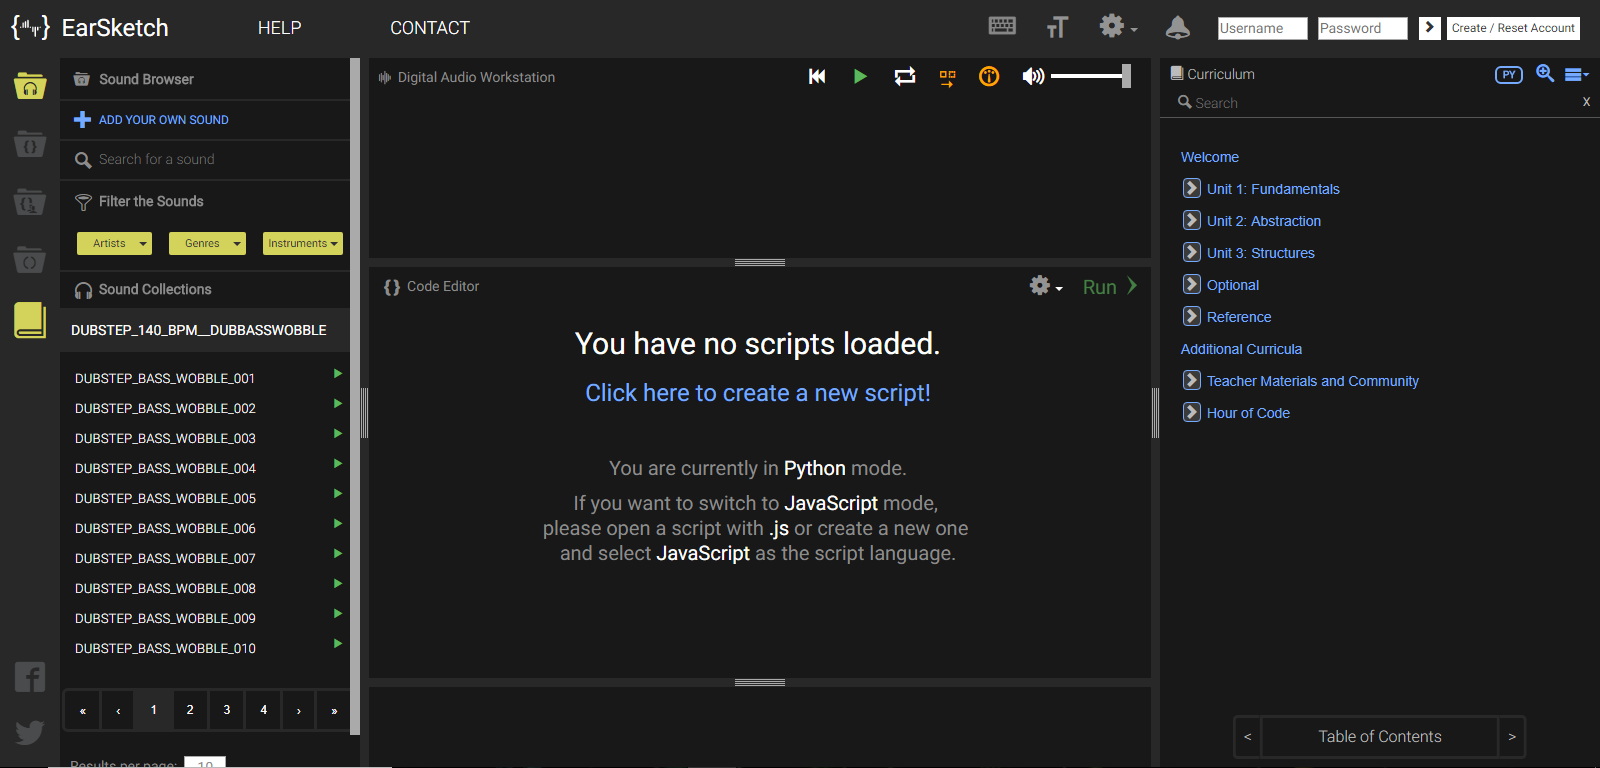
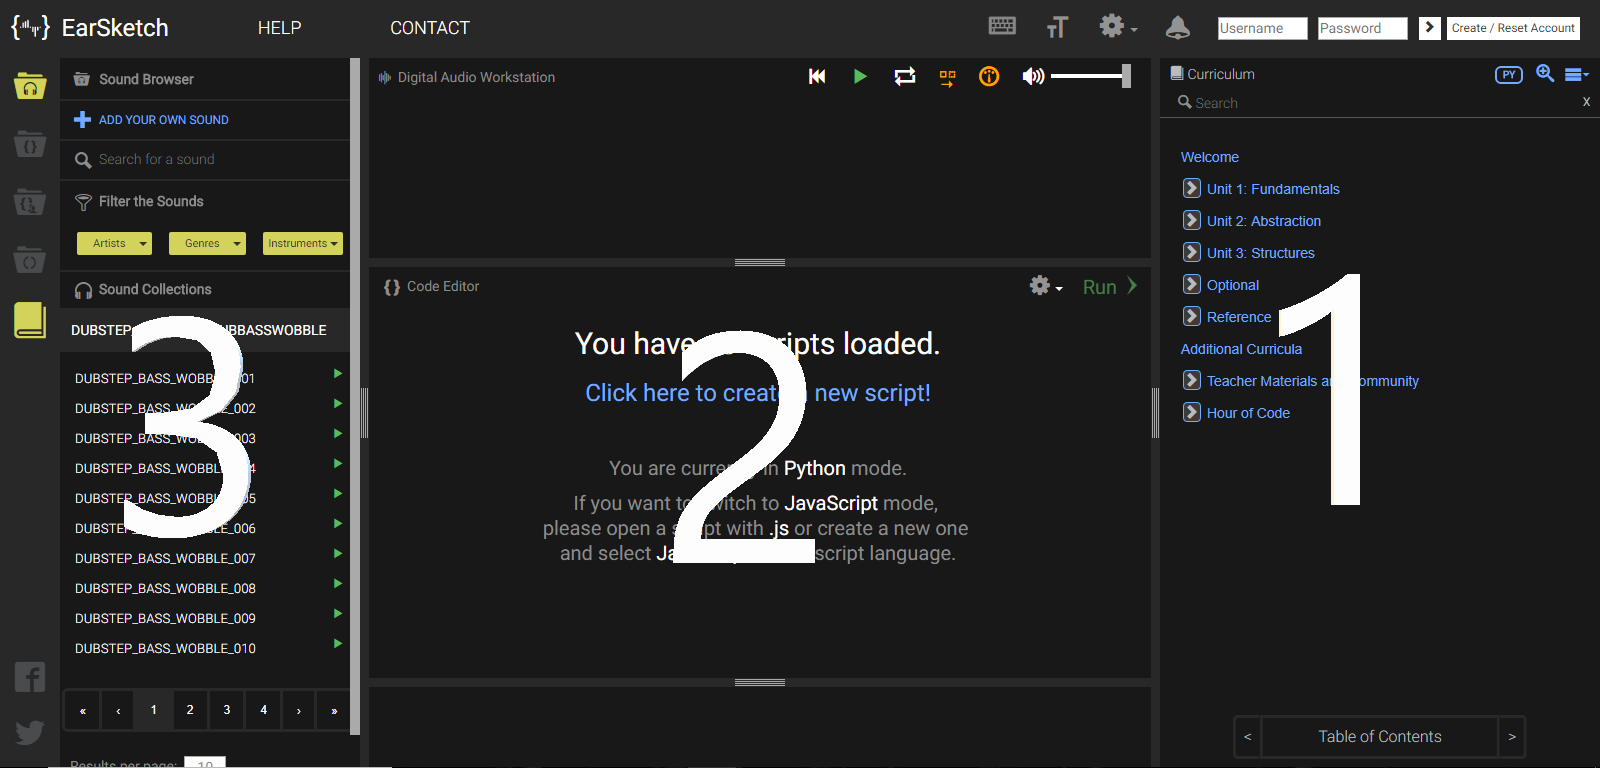
add images and update wk1 entry

Changed region(s): [[0.4062, 0.4062, 0.5312, 0.75], [0.7812, 0.3438, 0.875, 0.6562], [0.0625, 0.4062, 0.1562, 0.7188]]

diff --git a/entries/wk-1.md b/entries/wk-1.md
@@ -1,16 +1,39 @@
-## Week One: _Picking a topic for Independent Study_
+![ersch_logo](../images/earsketch_logo.jpg)
+
+## Week One: _Picking a topic for Independent Study_     
 ---
 
 #### Decision 
-Since I am an indecisive person, I usually have a hard time picking something to work with. There was a whole list of options of topics to choose from. I was mostly intrigued by the following topics: [Aframe.io](https://aframe.io/), [EarSketch](https://earsketch.gatech.edu/landing/#/), [Halite](https://halite.io/), [Firebase](https://firebase.google.com), and Building your own API. I contemplated about these potential topics that peaked my interest until I narrowed it down to two topics. *How?* 
-**Firebase** was the first option I deleted from my "potential topics" list. *Why?* I realized I would not know what kind of app to make after learning Firebase and I do not want to make a Firebase tutorial (honestly, that is **_boring and not creative_**). *Firebase, you are fired by me! I'll recruit you again maybe in the future.* *Do you want to know who was fired next?* I will give you a hint: when you try to pronounce it you will say *"Heyyy, light"* or some of you may say *"Huh? light"*. Halolight? Nope. It is **Halite**, an open source artificial intelligence programming challenge. Sounds cool, right? However, as someone who is horrible at playing games, does it really make sense for me to try to learn how to create a bot that ultimately has to manage to survive in a game? Nope, I do not have the enthusiasm and minset to figure out how to last through a game, so I do not want to create a bot that lacks the intelligence to survive through the game. *"Farewell to thee, Halite. Have a nice flight!"*. As someone who had a hard time figuring out how to use an API for my last project, I quickly dismissed the idea of me possibly building my own API. Even if I did pick this topic *hypothetically*, it is not like I would know what kind of API to create. That left me to two options from my "possible topics" list. **Aframe.io** is a virtual reality engine/web framework for building virtual reality experiences. Sounds interesting, but when I looked through examples I immediately realized that I would not be able to create an accurate virtual reality experience. I completely did not cross off Aframe.io off of my list. I chose **EarSketch** is a program where you can make music using Python or JavaScript. I like music, I just never knew we could make music using code! With EarSketch, I am a bit worried that just using EarSketch for my project would not be creative. Therefore, if I am done learning EarSketch early, I want to try to to learn another topic. 
+Since I am an indecisive person, I usually have a hard time picking something to work with. There was a whole list of topics as options to choose for independent study. I was mostly intrigued by the following topics: [**Aframe.io**](https://aframe.io/), [**EarSketch**](https://earsketch.gatech.edu/landing/#/), [**Halite**](https://halite.io/), [**Firebase**](https://firebase.google.com), and **Building your own API**. I contemplated about these potential topics that peaked my interest until I narrowed them down to two topics. **_How?_** **Firebase** was the first option I deleted from my "potential list of topics" list. **_Why?_** I realized I would not know what kind of app to make after learning Firebase and I do not want to make a Firebase tutorial (honestly, that is **_boring and not creative_**). *Firebase, you are fired by me! I'll recruit you again maybe in the future.* *Do you want to know who was fired next?* I will give you a hint: when you try to pronounce it you will say *"Heyyy, light"* or some of you may say *"Huh? light"*. Is the answer Halolight? Nope. It is **Halite**, an open source artificial intelligence programming challenge. Sounds cool, right? However, as someone who is horrible at playing games, does it _really_ make sense for me to try to learn how to create a bot that ultimately has to manage to survive in a game? Nope, I do not have the enthusiasm and mindset to figure out how to last through a game, so I do not want to create a bot that lacks the intelligence to survive through the game. *"Farewell to thee, Halite. Have a nice flight!"*. As someone who had a hard time figuring out how to use an API for my last project, I quickly dismissed the idea of me possibly **building my own API**. Even if I did pick this topic *hypothetically*, it is not like I would know what kind of API to create. That left me to two options from my "possible topics" list. **Aframe.io** is a virtual reality engine/web framework for building virtual reality experiences. Sounds interesting, but when I looked through examples I immediately realized that I would not be able to create an accurate virtual reality experience. I completely did not cross off Aframe.io off of my list. I chose **EarSketch** is a program where you can make music using Python or JavaScript. I like music, I just never knew we could make music using code! With EarSketch, I am a bit worried that just using EarSketch for my project would not be creative. Therefore, if I am done learning EarSketch early, I want to try to to learn another topic. 
 
 #### First Impression of EarSketch
-As I mentioned in the previous section, I do not consider using only EarSketch and creating music on its own as a creative idea for a project. I believe I can finish learning how to use EarSketch early. If I accomplish learning how to use EarSketch, I will attempt to learn anohter topic. My goal is to then incorporate the music I produced on EarSketch into what I will create with the other topic.
+As I mentioned in the previous section, I do not consider using only EarSketch and creating music on its own as a creative idea for a project. I believe I can finish learning how to use EarSketch early. If I accomplish learning how to use EarSketch, I will attempt to learn another topic. My goal is to then incorporate the music I produced on EarSketch into what I will create with the other topic.
 
 #### Exploring on EarSketch 
 When I first went to the [EarSketch](https://earsketch.gatech.edu/landing/#/) website, I watched the video they have on their landing page. Then, I clicked on the green "Get Started" button on the upper-right hand corner of the navigation bar. This action opened a new tab and I was greeted by a coding platform that looked similar to cloud9. 
 
-The View:
+**The View:**
 
 ![EarSketch](../images/EarSketch.PNG)
+
+ 1. The part labeled '**1**' is where the whole curriculum is. Lessons and example videos on how to use EarSketch are there. I looked through "Unit 1: Fundamentals" briefly. There was a spiel about why someone should consider learning programming for music in the beginning of Unit 1. Also, I was introduced to unfamiliar terms. For example, I learned that **DAW** stands for **Digital Audio Workstation**. **DAW** is the main tool for producing music and is a software for recording, editing, and playing digital audio files. The neat thing is that you can change and choose the language you want to learn how to make music in. In the screenshot, you can see on the same line as 'Curriculum' an icon that is square-shaped with 'PY' inside, you can click on that icon to change the coding language you want to learn in. You can pick JavaScript or Python to learn how to code in EarSketch to create music. 
+ 2. **Label '2'** is the **Code Editor** and you can click on the 'Click here to create a new script!' to create a new script and code music! Like how we create an app-sandbox to test out some code. That is how we also create a file. 
+ 3. **Label '3'** is where the sound collections are located. You can search for a sound or add your own sound. Also, there are filters you can use to search for a specific genre of sound collections. For example, when I click on the green 'Genres' tab and select 'DUBSTEP', I will receive a sound collection of sound constants labeled with 'DUBSTEP'. I can click on the green play button to hear one of the sound constants from the lists. You cannot see in the screenshot, but there are to other icons next to the play icon/button. There is a star icon to add a sound constant to Favorites and there is a clipboard icon that allows you to paste a sound constant into the code editor without you having to copy and paste it yourself manually. 
+
+**Example:** 
+
+![test-ex1](../images/test-ex1.PNG)
+
+1. In this screenshot, the part labeled '**1**' is the **Code Editor** I mentioned briefly while referring to the first screenshot. The coding language shown in this screenshot is Python. You can also choose to make a JavaScript file/script. I just happened to choose Python. Everytime you create a new script it will always automatically include `lines 1-8, line 10, line 11, and line 16`. That is the template. In the screenshot, I commented that these particular lines are present in every new file. `sound` is just a variable that contains a sound constant as its value. `fitMedia` is a method  used to add an audio file to a specified track at specified start and end times. For example, `fitMedia(sound, 1, 1, 17)`. `sound` is the sound constant you want to use. `1` is the specified track number. The second `1` is the specified start time and `17` is the specified end time. 
+2. **Label '2'**: is the **DAW**. The DAW in this screenshot is showing the track visually. The available functions under "Effects" for a track is 'S' or 'M'. 'M' is there if you want to mute the track. 'S' is there if you want to hear only one track by muting the other tracks. The ruler looking thing is a measurement, the measurements are referred to for determining start time and end time. On top of those measurements is the actual time that we are used to in seconds. 
+3. **Label '3'** = the **Console**. The Console is similar to the JavaScript Console and Python Console we are used to seeing. The Console displays important information about your code when you run the code, like the location of errors in your code. If your code does not have any errors what you see on the screenshot will appear. 
+4. **Label '4'** = is an API(Application Programming Interface) Browser. _No surprise there! Afterall, EarSketch is a web app!_ The **API Browser** contains methods that you can use to make music, control sound constants, and edit music. As you can see, each method contains specific parameters. When you use a method in the code editor, what you replace these parameters with become arguments. _This sounds very familiar, right?_ The functionality of methods in EarSketch is **_very_** similar to the the functionality of methods in Ruby. Near each method there are two icons: the eye icon and the clipboard icon. When you click on the eye icon it expands the hidden information about a method. It gives a brief description of each parameter of that method and about its function, so you know what type of information you will need to replace each parameter-name with when using a specific method in the code editor. You can re-click on the eye icon to close the long description. The clipboard icon's function is to paste the method into the code editor.    
+5. **Label '5'**: a left-side icon-bar. The icon-bar has five crucial file-shaped icons. The first icon on the top is the 'Sounds' icon which contains the 'Sound Browser' and 'Sound Collections' that can be accessed with one-click on the 'Sounds' icon. The second icon is the 'Scripts' icon, it contains the all your scripts(files) and you can create a new script there. The third icon is the 'Share' icon which is for accessing scripts that other people shared with you. The fourth icon is the 'API' icon which contains the 'API Browser' and 'API List'. The fifth icon 'Curriculum' icon, this simply makes the curriculum appear on the right side of the browser. The top four icons need to be pressed once when you want to access information from a specific icon. The information will show up in **Label '4's'** location. If you double-click any of the top four icons, it will make the information in **Label '4'** recede from view. However, if you want to make the curriculum recede from the view you only need to click on the 'Curriculum' icon once. 
+
+#### Takeaways 
+- **Look for Similarities**: When we start our journey to learn something new we are afraid of the novel discoveries we will make. What we forget about is that **No matter what new topic/idea/lesson we learn about there will *always* be something that we are familiar with**. I thought that learning how to code in EarSketch is something completely new. However, when I was exploring and looking through EarSketch, I saw that I could use Python or JavaScript to code in EarSketch. I learned how to code in Python before and a little bit of JavaScript too. Also, when I saw the 'API Browser', I looked at the method and instantly realized _'Hey, these methods look very familiar! They look like the methods we learned about recently while we were learning about Ruby!'_. Some of my worries and fears about EarSketch vanished when I found these similarities. We can always look for similarities, I always look for similarities, it is an innate behavior.  
+--- 
+
+[**Next**](wk-2.md) 
+
+[**Back to the Homepage**](../README.md)

diff --git a/README.md b/README.md
@@ -1,4 +1,4 @@
-# Independent Study Blog 
+# Independent Study Findings
 #### By _Shifa Quddus_ 
 ---
 ### [Week One](entries/wk-1.md) 
